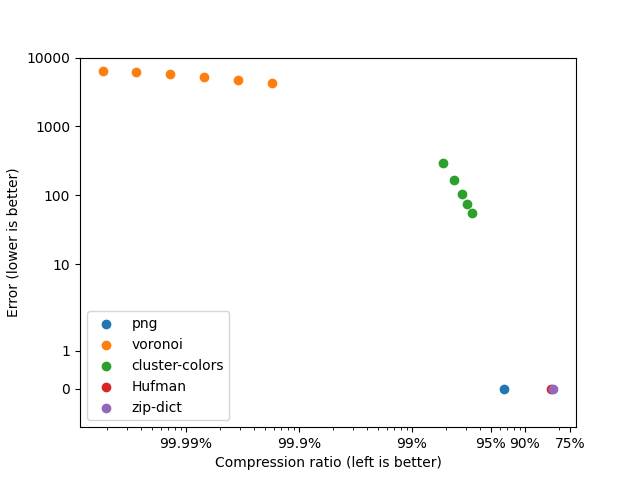
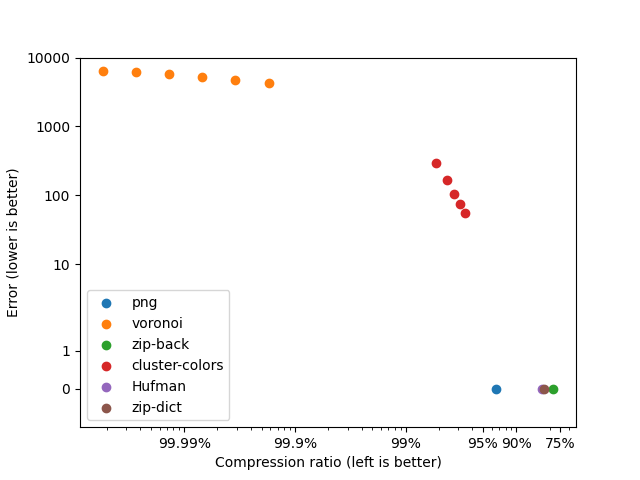
Update the status diagrams with zip-back

diff --git a/README.md b/README.md
@@ -22,6 +22,7 @@ Legend:
 * `png`: The lossless PNG codec with default parameters
 * `Hufman`: Hufman-coding the pixel colors
 * `zip-dict`: Zip-inspired online dictionary building
+* `zip-back`: Zip-inspired lookback compression
 
 #### Lossy codecs
 
@@ -37,6 +38,7 @@ Legend:
 * `voronoi`: cluster the pixels using K-means (position + color). Store only the clusters and reconstruct the image as a Voronoi diagram.
   * results are shown for 64 centroids (left), 128, 256, 512, 1024 and 2048 (right)
 * `zip-dict`: Zip-inspired online dictionary building
+* `zip-back`: Zip-inspired lookback compression
 
 ### ASCII art codec descriptions
 
